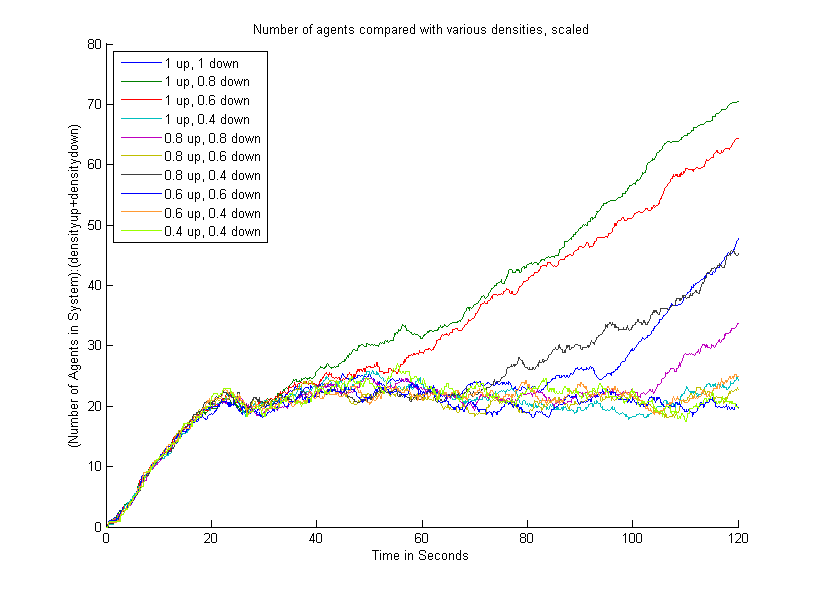
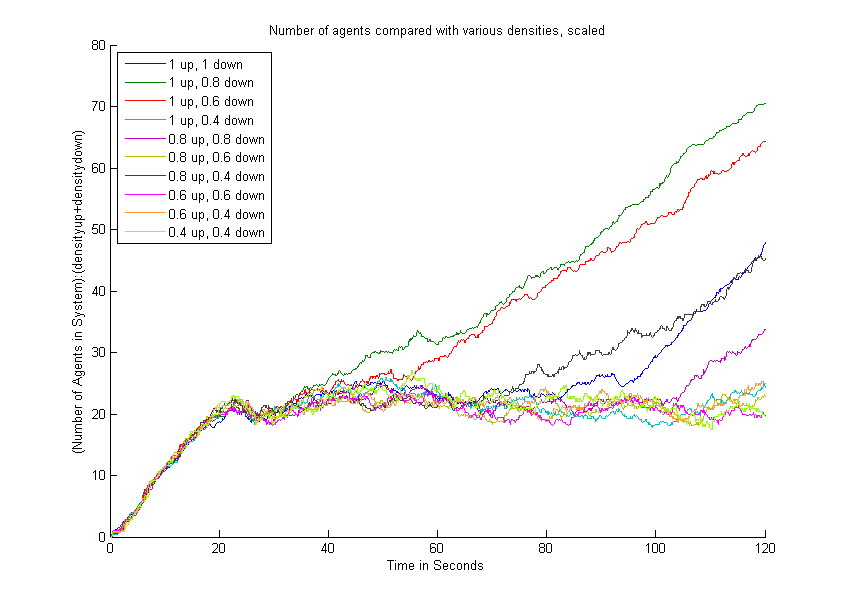
new colour to avoid doucle use of blue

diff --git a/code/sim/Density/AAllAveragesInOnePlot.m b/code/sim/Density/AAllAveragesInOnePlot.m
@@ -2,11 +2,11 @@
 %different densities against time.
 
 hold on;
-plot(0.1:0.1:120, AgentsInSystem1up1downAvg, 0.1:0.1:120, AgentsInSystem1up08downAvg, 0.1:0.1:120, AgentsInSystem1up06downAvg, 0.1:0.1:120, AgentsInSystem1up04downAvg, 0.1:0.1:120, AgentsInSystem08up08downAvg, 0.1:0.1:120, AgentsInSystem08up06downAvg, 0.1:0.1:120, AgentsInSystem08up04downAvg, 0.1:0.1:120, AgentsInSystem06up06downAvg);
+plot(0.1:0.1:120, AgentsInSystem1up1downAvg, 0.1:0.1:120, AgentsInSystem1up08downAvg, 0.1:0.1:120, AgentsInSystem1up06downAvg, 0.1:0.1:120, AgentsInSystem1up04downAvg, 0.1:0.1:120, AgentsInSystem08up08downAvg, 0.1:0.1:120, AgentsInSystem08up06downAvg, 0.1:0.1:120, AgentsInSystem08up04downAvg);
+plot(0.1:0.1:120, AgentsInSystem06up06downAvg, 'Color', [1 0 1]);
 plot(0.1:0.1:120, AgentsInSystem06up04downAvg, 'Color', [1 153/253 51/253]);
 plot(0.1:0.1:120, AgentsInSystem04up04downAvg, 'Color', [153/255 1 0]);
 legend('1 up, 1 down','1 up, 0.8 down','1 up, 0.6 down','1 up, 0.4 down','0.8 up, 0.8 down','0.8 up, 0.6 down','0.8 up, 0.4 down','0.6 up, 0.6 down','0.6 up, 0.4 down','0.4 up, 0.4 down','Location','NorthWest');
-hold off;
-
 xlabel('Time in Seconds'); ylabel('Number of Agents in System');
 title('Number of agents compared with various densities');
+hold off;

diff --git a/code/sim/Density/AAllAveragesScaled.m b/code/sim/Density/AAllAveragesScaled.m
@@ -2,7 +2,8 @@
 %so it's a scaled version of the one above
 
 hold on;
-plot(0.1:0.1:120, AIS1up1downAvgScaled, 0.1:0.1:120, AIS1up08downAvgScaled, 0.1:0.1:120, AIS1up06downAvgScaled, 0.1:0.1:120, AIS1up04downAvgScaled, 0.1:0.1:120, AIS08up08downAvgScaled, 0.1:0.1:120, AIS08up06downAvgScaled, 0.1:0.1:120, AIS08up04downAvgScaled, 0.1:0.1:120, AIS06up06downAvgScaled);
+plot(0.1:0.1:120, AIS1up1downAvgScaled, 0.1:0.1:120, AIS1up08downAvgScaled, 0.1:0.1:120, AIS1up06downAvgScaled, 0.1:0.1:120, AIS1up04downAvgScaled, 0.1:0.1:120, AIS08up08downAvgScaled, 0.1:0.1:120, AIS08up06downAvgScaled, 0.1:0.1:120, AIS08up04downAvgScaled);
+plot(0.1:0.1:120, AIS06up06downAvgScaled, 'Color', [1 0 1]);
 plot(0.1:0.1:120, AIS06up04downAvgScaled, 'Color', [1 153/253 51/253]);
 plot(0.1:0.1:120, AIS04up04downAvgScaled, 'Color', [153/255 1 0]);
 legend('1 up, 1 down','1 up, 0.8 down','1 up, 0.6 down','1 up, 0.4 down','0.8 up, 0.8 down','0.8 up, 0.6 down','0.8 up, 0.4 down','0.6 up, 0.6 down','0.6 up, 0.4 down','0.4 up, 0.4 down','Location','NorthWest');
